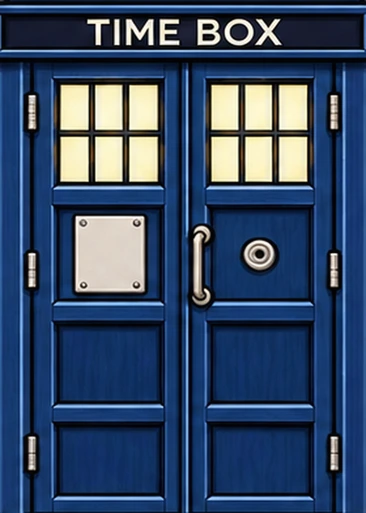
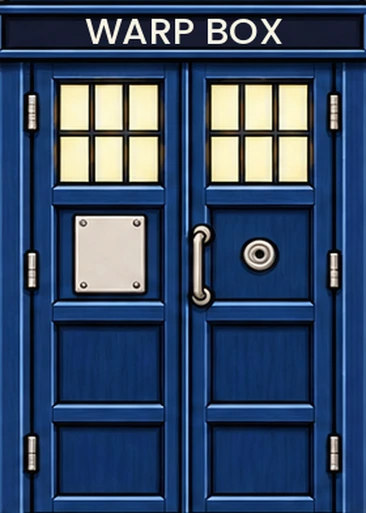
Jummah Dash: Warp Box name, signs, coin rewards, no zapper walls
Claude-Session: https://claude.ai/code/session_01YJ1z4udzgwtjsqdwzKAzGp

Changed region(s): [[0.2104, 0.0312, 0.7814, 0.0936]]

diff --git a/jummahdash/demo/game.js b/jummahdash/demo/game.js
@@ -657,10 +657,11 @@ function jalebiPop(c) { if (t - jalT > .6) { jalT = t; pops.push({ x: c.x, y: c.
 
 function spawnPattern() {
   const x0 = W + 60, top = CEIL + 14, bot = FLOOR - 14, r = Math.random(), m = dist / 10;
-  if (BOX_SOLID() && Math.random() < .55) {   // owner 23 Nov: in the box the street throws things he can warp through: zapper walls, rocket volleys, big lasers
+  if (BOX_SOLID()) {   // owner 23 Nov: in the Warp Box the street throws rocket volleys and big lasers (no zapper walls)
     const q = Math.random();
-    if (q < .45) { const n = 2 + (Math.random() * 2 | 0); for (let i = 0; i < n; i++) obs.push({ type: 'zap', x: x0 + i * 120, y: top + 40 + Math.random() * (bot - top - 80), len: 110 + Math.random() * 60, ang: Math.random() < .5 ? Math.PI / 2 : Math.random() * Math.PI, spin: 0, seed: Math.random() * 99 }); for (let i = 0; i < 6; i++) coinList.push({ x: x0 + 40 + i * 40, y: top + 30 + Math.random() * (bot - top - 60), got: 0 }); return 120 * n + 200; }
-    if (q < .8) { const n = 2 + (Math.random() * 2 | 0); for (let i = 0; i < n; i++) setTimeout(() => { if (state === 'play') obs.push({ type: 'rocket', x: W + 40, y: hero.y - 30 + (Math.random() - .5) * 80, warn: 1.3, lock: 0, v: 0 }); }, i * 450); return 360; }
+    if (q > .78) { const n = 12, y0 = top + 30 + Math.random() * (bot - top - 80); for (let i = 0; i < n; i++) coinList.push({ x: x0 + i * 18, y: y0 + Math.sin(i / 2.2) * 26, got: 0 }); return 140 + n * 18; }   // breathers: plain coin waves
+    if (q < .5) { for (let i = 0; i < 10; i++) coinList.push({ x: x0 + 60 + i * 24, y: top + 30 + (i % 5) * (bot - top - 60) / 4, got: 0 });   // owner 23 Nov: no zapper walls in the Warp Box; rocket volleys with coins to warp through
+      const n = 2 + (Math.random() * 2 | 0); for (let i = 0; i < n; i++) setTimeout(() => { if (state === 'play') obs.push({ type: 'rocket', x: W + 40, y: hero.y - 30 + (Math.random() - .5) * 80, warn: 1.3, lock: 0, v: 0 }); }, i * 450); return 360; }
     [CEIL + 40, (CEIL + FLOOR) / 2, FLOOR - 40].forEach((y, i) => obs.push({ type: 'laser', x: W / 2, y, ph: 'in', pt: 0, slide: 0, d: i * .12 })); return 380; }
   if (r < .3) { // line / wave of coins
     const n = 8 + (Math.random() * 8 | 0), y0 = top + 20 + Math.random() * (bot - top - 60), wave = Math.random() < .5;
@@ -860,7 +861,8 @@ let BOXR = null; const BOX_P = .4;   // each shimmer lasts .4 s
 function boxTick(dt) { if (!BOXR) return; if (hero.dead || veh) { BOXR = null; return; } BOXR.t += dt; BOXR.cd = Math.max(0, (BOXR.cd || 0) - dt);
   if (BOXR.t > BOX_LIFE && !BOXR.w) { BOXR = null; flashT = .1; flashCol = '170,200,255'; tone(700, .3, 'sine', .05, .4, MIX && MIX.fx); pops.push({ x: hero.x + 20, y: hero.y - HH * 2, txt: 'BOX GONE!', col: '#9fc4ff', t: 0 }); for (let i = 0; i < 24; i++) sparks.push({ x: hero.x + (Math.random() - .5) * 60, y: hero.y - Math.random() * 90, vx: (Math.random() - .5) * 260, vy: -Math.random() * 200, l: .5, c: Math.random() < .5 ? '#9fc4ff' : '#fff6c8' }); inv = Math.max(inv, 1); return; }
   if (BOXR.w) { const w0 = BOXR.w.t; BOXR.w.t += dt; inv = Math.max(inv, .15); hero.vy *= .9;
-    if (w0 < WO + WG && BOXR.w.t >= WO + WG) { tone(520, .3, 'sine', .06, 1.9, MIX && MIX.fx); flashT = .08; flashCol = '170,200,255'; for (let i = 0; i < 20; i++) { const a = Math.random() * 6.28; sparks.push({ x: hero.x, y: hero.y - HH * .8, vx: Math.cos(a) * 220, vy: Math.sin(a) * 220, l: .35, c: Math.random() < .5 ? '#9fc4ff' : '#ffffff' }); } pops.push({ x: hero.x + 30, y: hero.y - HH * 2, txt: 'WARPED!', col: '#9fc4ff', t: 0 }); obs = obs.filter(o => !(o.type === 'zap' && Math.abs(o.x - hero.x) < 120) && !(o.type === 'rocket' && o.x > hero.x - 40 && o.x < hero.x + 200)); }
+    if (BOXR.w.t > WO * .5 && BOXR.w.t < WO + WG) coinList.forEach(c => { if (!c.got && c.x < hero.x + 60 && c.x > hero.x - 500) { c.got = 1; coins += nearMult * (c.j ? 3 : 1); BOXR.w.n += nearMult * (c.j ? 3 : 1); lastCoin = dist; } });   // every coin on the stretch he skips is his
+    if (w0 < WO + WG && BOXR.w.t >= WO + WG) { tone(520, .3, 'sine', .06, 1.9, MIX && MIX.fx); flashT = .08; flashCol = '170,200,255'; for (let i = 0; i < 20; i++) { const a = Math.random() * 6.28; sparks.push({ x: hero.x, y: hero.y - HH * .8, vx: Math.cos(a) * 220, vy: Math.sin(a) * 220, l: .35, c: Math.random() < .5 ? '#9fc4ff' : '#ffffff' }); } { const bonus = BOXR.w.auto ? 2 : 3, got = BOXR.w.n + bonus; coins += bonus; $('coins').textContent = '£' + coins; SFX.coin && SFX.coin(1.3); pops.push({ x: hero.x + 30, y: hero.y - HH * 2, txt: (BOXR.w.auto ? 'SLIPPED THROUGH! +£' : 'WARPED! +£') + got, col: '#9fc4ff', t: 0 }); RUN.warpCoins = (RUN.warpCoins || 0) + got; } obs = obs.filter(o => !(o.type === 'zap' && Math.abs(o.x - hero.x) < 120) && !(o.type === 'rocket' && o.x > hero.x - 40 && o.x < hero.x + 200)); }
     if (BOXR.w.t > WO + WG + WI) BOXR.w = null; } BOXR.a += dt * (BOXR.t < BOX_P * 3 ? 5 : 2.6);
   const ph = Math.floor(BOXR.t / BOX_P); if (ph !== BOXR.ph && ph <= 3) { BOXR.ph = ph; tone(ph < 3 ? 520 + ph * 90 : 880, ph < 3 ? .16 : .28, 'sine', .05, ph < 3 ? 1.6 : 1.25, MIX && MIX.fx); tone(ph < 3 ? 260 : 440, .2, 'triangle', .03, 1.4, MIX && MIX.fx);
     for (let i = 0; i < (ph < 3 ? 8 : 22); i++) sparks.push({ x: hero.x + (Math.random() - .5) * 60, y: hero.y - Math.random() * 90, vx: (Math.random() - .5) * 120 - speed * .2, vy: -Math.random() * 120, l: .45, c: Math.random() < .5 ? '#9fc4ff' : '#fff6c8' });
@@ -869,7 +871,7 @@ const BOX_LIFE = 22;   // seconds the box lasts (owner: it runs out)
 const BOX_SOLID = () => BOXR && BOXR.t >= BOX_P * 3.7;
 const WARP_CD = 2.4, WO = .24, WG = .42, WI = .3;   // warp: fade out, gone (the street rushes past), fade back in further along
 function boxWarp(auto) { if (!BOX_SOLID() || BOXR.w || (!auto && (BOXR.cd || 0) > 0) || state !== 'play' || hero.dead) return false;
-  BOXR.w = { t: 0 }; BOXR.cd = WARP_CD; RUN.warps = (RUN.warps || 0) + 1; tone(300, .35, 'sine', .06, .35, MIX && MIX.fx); tone(900, .3, 'sine', .03, .3, MIX && MIX.fx);
+  BOXR.w = { t: 0, n: 0, auto: !!auto }; BOXR.cd = WARP_CD; RUN.warps = (RUN.warps || 0) + 1; tone(300, .35, 'sine', .06, .35, MIX && MIX.fx); tone(900, .3, 'sine', .03, .3, MIX && MIX.fx);
   for (let i = 0; i < 26; i++) { const a = Math.random() * 6.28, r = 40 + Math.random() * 30; sparks.push({ x: hero.x + Math.cos(a) * r, y: hero.y - HH * .8 + Math.sin(a) * r, vx: -Math.cos(a) * r * 3, vy: -Math.sin(a) * r * 3, l: .25, c: Math.random() < .5 ? '#9fc4ff' : '#ffffff' }); }   // sucked inward
   return true; }
 function warpVis() { if (!BOXR || !BOXR.w) return 1; const t = BOXR.w.t; if (t < WO) return 1 - t / WO; if (t < WO + WG) return 0; return Math.min(1, (t - WO - WG) / WI); }
@@ -1042,7 +1044,7 @@ function update(dt) {
   if (flashT > 0) flashT -= dt; if (shake > 0) shake -= dt; if (banner) { banner.t += dt; if (banner.t > 1.8) banner = null; }
   // coins
   coinList.forEach(c => { c.x -= dx;
-    if (!c.got && !hero.dead && state === 'play' && (hasG('tin') || (veh && (veh.k === 'kabootar' || veh.nb > .3 || (veh.k === 'mech' && veh.su >= 1))) || boost)) { const hx = hero.x + (veh && veh.k === 'mech' ? 30 * MCH : 4), hy = hero.y - (veh && veh.k === 'kabootar' ? 44 : veh && veh.k === 'mech' ? 100 * MCH : veh ? 36 : 24), d = Math.hypot(hx - c.x, hy - c.y); if (d < (boost ? 260 : 170) || c.mag) { c.mag = 1; const k = Math.min(1, dt * 9); c.x += (hx - c.x) * k; c.y += (hy - c.y) * k; } }
+    if (!c.got && !hero.dead && state === 'play' && (hasG('tin') || BOX_SOLID() || (veh && (veh.k === 'kabootar' || veh.nb > .3 || (veh.k === 'mech' && veh.su >= 1))) || boost)) { const hx = hero.x + (veh && veh.k === 'mech' ? 30 * MCH : 4), hy = hero.y - (veh && veh.k === 'kabootar' ? 44 : veh && veh.k === 'mech' ? 100 * MCH : veh ? 36 : 24), d = Math.hypot(hx - c.x, hy - c.y); if (d < (boost ? 260 : 170) || c.mag) { c.mag = 1; const k = Math.min(1, dt * 9); c.x += (hx - c.x) * k; c.y += (hy - c.y) * k; } }
     if (!c.got && !hero.dead && state === 'play') { const hc = heroCircles(); if (hc.some(([x, y, r]) => Math.hypot(x - c.x, y - c.y) < r + COIN_R + 2)) { c.got = 1; coins += nearMult * (c.j ? 3 : 1); if (c.j) jalebiPop(c); if (veh && veh.k === 'tuktuk') veh.fuel = Math.min(1, veh.fuel + .04); lastCoin = dist; POL.coin(c); } } });
   coinList.forEach(c => { if (!c.got && c.x < -18 && !c.m) { c.m = 1; stats.missed++; } });
   coinList = coinList.filter(c => c.x > -20 && !c.got);
@@ -1283,7 +1285,7 @@ function rideIcon(k) { if (k === 'carpet' && CARPET_ICON.complete && CARPET_ICON
 function roundRect(x, y, w, h, r) { ctx.beginPath(); ctx.moveTo(x + r, y); ctx.arcTo(x + w, y, x + w, y + h, r); ctx.arcTo(x + w, y + h, x, y + h, r); ctx.arcTo(x, y + h, x, y, r); ctx.arcTo(x, y, x + w, y, r); ctx.closePath(); }
 
 /* rides: tuk-tuk (drives on the pavement, tap to jump) and magic carpet (hold to rise, glides down). One hit = the ride blows up and he's thrown clear. */
-const VEH_NAME = { box: 'BLUE BOX', tuktuk: 'TUK-TUK', carpet: 'MAGIC CARPET', kabootar: 'FLAPPY KABOOTAR', sandals: 'GRAVITY SANDALS', mech: 'HOOVER MECH', logman: 'LAKRI MAN' };
+const VEH_NAME = { box: 'WARP BOX', tuktuk: 'TUK-TUK', carpet: 'MAGIC CARPET', kabootar: 'FLAPPY KABOOTAR', sandals: 'GRAVITY SANDALS', mech: 'HOOVER MECH', logman: 'LAKRI MAN' };
 const RIDES = ['tuktuk', 'carpet', 'kabootar', 'sandals', 'mech', 'logman', 'box'];
 const MCH = 1.08;   // Hoover Mech size (owner 23 Nov: doubled, then 25% smaller: about 45% of the screen tall)
 // gift-box rides come from a shuffled deck: every ride once before any repeats, never the same one twice in a row, kept between games (owner, 22 Nov)
@@ -1355,7 +1357,7 @@ const PIG_N = 8, pigArt = (() => { const out = [];
     out.push(c); }
   window.__pigArt = out; return out; })();
 function runStarted() {
-  if (!localStorage.getItem('jd_skilltip')) { try { localStorage.setItem('jd_skilltip', '1'); } catch (e) {} setTimeout(() => pops.push({ x: hero.x + 40, y: hero.y - 110, txt: 'TAP DASH (OR SWIPE RIGHT)!', col: '#ffd21f', t: 0 }), 2500); setTimeout(() => pops.push({ x: hero.x + 40, y: hero.y - 110, txt: 'FLY CLOSE TO HAZARDS = x2 COINS', col: '#7fe3ff', t: 0 }), 7000); }   // start of the run proper: offer head starts (like their HEAD START buttons), golden misbaha ride
+  if (!localStorage.getItem('jd_skilltip')) { try { localStorage.setItem('jd_skilltip', '1'); } catch (e) {} setTimeout(() => pops.push({ x: hero.x + 40, y: hero.y - 110, txt: BOXR ? 'TAP WARP TO SKIP AHEAD!' : 'TAP DASH (OR SWIPE RIGHT)!', col: '#ffd21f', t: 0 }), 2500); setTimeout(() => pops.push({ x: hero.x + 40, y: hero.y - 110, txt: 'FLY CLOSE TO HAZARDS = x2 COINS', col: '#7fe3ff', t: 0 }), 7000); }   // start of the run proper: offer head starts (like their HEAD START buttons), golden misbaha ride
   usedSave = 0;
   if (SHOP.hs500 > 0 || SHOP.hs1000 > 0) { $('hs5').style.display = SHOP.hs500 > 0 ? '' : 'none'; $('hs10').style.display = SHOP.hs1000 > 0 ? '' : 'none'; $('hs5n').textContent = 'x' + SHOP.hs500; $('hs10n').textContent = 'x' + SHOP.hs1000; $('hsBox').classList.add('on'); clearTimeout(runStarted.t); runStarted.t = setTimeout(() => $('hsBox').classList.remove('on'), 3800); }
   if (hasG('misbaha')) setTimeout(() => { if (state === 'play' && !veh && !boost && !hero.dead) startVehicle(nextRide()); }, 600);
@@ -1456,7 +1458,7 @@ function drawReveal() {
   ctx.restore(); ctx.globalAlpha = 1;
 }
 function startVehicle(k, fromReveal) {
-  if (k === 'box') { BOXR = { t: 0, a: 0, ph: -1 }; RUN.box = 1; inv = Math.max(inv, 1.6); return; }   // owner 23 Nov: the blue box shimmers in round him; he keeps flying as normal
+  if (k === 'box') { BOXR = { t: 0, a: 0, ph: -1 }; RUN.box = 1; inv = Math.max(inv, 1.6); if (!RUN.warpTip) { RUN.warpTip = 1; setTimeout(() => BOXR && pops.push({ x: hero.x + 40, y: hero.y - 120, txt: 'TAP WARP TO SKIP AHEAD!', col: '#9fc4ff', t: 0 }), 1700); } return; }   // owner 23 Nov: the blue box shimmers in round him; he keeps flying as normal
   BOXR = null;
   if (k === 'kabootar' && !window.__oldPigeon && FMS.enter()) return;
   RUN[k] = 1;

diff --git a/jummahdash/demo/jd-extra.js b/jummahdash/demo/jd-extra.js
@@ -121,7 +121,7 @@
   }
   function snapshot() { try { if (!localStorage.getItem('jd_admin_snap')) localStorage.setItem('jd_admin_snap', JSON.stringify({ shop: localStorage.getItem('jd_shop'), bank: localStorage.getItem('jd_bank') })); } catch (e) {} }
   // what admin runs start with, plus extras (kept on the phone). When a new ride / power-up is added to the game, add it to START here too (owner rule).
-  var START = [['', 'NOTHING'], ['tuktuk', 'TUK-TUK'], ['carpet', 'MAGIC CARPET'], ['kabootar', 'FLAPPY KABOOTAR'], ['sandals', 'GRAVITY SANDALS'], ['mech', 'HOOVER MECH'], ['logman', 'LAKRI MAN'], ['box', 'BLUE BOX'], ['logmangold', 'GOLDEN LAKRI MAN'], ['hs500', 'HEAD START 500M'], ['hs1000', 'HEAD START 1000M']];
+  var START = [['', 'NOTHING'], ['tuktuk', 'TUK-TUK'], ['carpet', 'MAGIC CARPET'], ['kabootar', 'FLAPPY KABOOTAR'], ['sandals', 'GRAVITY SANDALS'], ['mech', 'HOOVER MECH'], ['logman', 'LAKRI MAN'], ['box', 'WARP BOX'], ['logmangold', 'GOLDEN LAKRI MAN'], ['hs500', 'HEAD START 500M'], ['hs1000', 'HEAD START 1000M']];
   var TOG = [['god', "CAN'T DIE"], ['boxes', 'RIDE BOX EVERY 10S'], ['magnet', 'COIN MAGNET']];
   var OPT = (function () { try { return JSON.parse(localStorage.getItem('jd_adm_opt')) || {}; } catch (e) { return {}; } })();
   function saveOpt() { try { localStorage.setItem('jd_adm_opt', JSON.stringify(OPT)); } catch (e) {} }

diff --git a/jummahdash/demo/sw.js b/jummahdash/demo/sw.js
@@ -1,8 +1,8 @@
 /* Jummah Dash: keeps the whole game on the phone. First visit downloads it once;
    after that it opens from the phone, and an update only downloads the files that changed. */
-const BUILD = '20261123205317';
+const BUILD = '20261123205757';
 const FILES = {
-"jd-extra.js": "077fef3017",
+"jd-extra.js": "cfaae1b40a",
 "hd/landmarks_hd.js": "7d60d75c5a",
 "hd/cars_v3.js": "51ebab1eae",
 "hd/mech.js": "e8ac3de068",
@@ -10,7 +10,7 @@ const FILES = {
 "hd/box.js": "768b9463b2",
 "hd/tins.js": "aa419cd2f9",
 "hd/foodbank.png": "8f4400d5e6",
-"game.js": "94c06af5e8",
+"game.js": "a5746713e3",
 "landmarks.js": "4649570284",
 "vehicles.js": "32fdac20ce",
 "manifest.webmanifest": "f337af2b13",
@@ -241,13 +241,13 @@ const FILES = {
 "art/logman_gold/n_thigh.webp": "aaffa00576",
 "art/logman_gold/n_uarm.webp": "58f38074cd",
 "art/box/base.webp": "3fd1349f37",
-"art/box/front.webp": "7ba833a92a",
+"art/box/front.webp": "43c2283e35",
 "art/box/lantern.webp": "94f1c9763d",
 "art/box/lb.webp": "b13ab50723",
 "art/box/r1.webp": "fb471968b4",
 "art/box/r2.webp": "9fa23b2413",
 "art/box/r3.webp": "99f06cb030",
-"art/box/side.webp": "9c3299591a",
+"art/box/side.webp": "1ceb0fb758",
 "art/hero3s_classic.webp": "522b3e2d9c",
 "art/hero3s_eid.webp": "f6e3b5f896",
 "art/hero3s_luton.webp": "9d40f76781",

diff --git a/jummahdash/demo/game.html b/jummahdash/demo/game.html
@@ -607,9 +607,9 @@ var t=setInterval(function(){var lt=document.getElementById('loadTxt');if(!q&&lt
 <script src="hd/mech.js?h=e8ac3de068"></script>
 <script src="hd/logman.js?h=3eebaa7c57"></script>
 <script src="hd/box.js?h=768b9463b2"></script>
-<script src="game.js?h=94c06af5e8"></script>
+<script src="game.js?h=a5746713e3"></script>
 <script src="hd/tins.js?h=aa419cd2f9"></script>
-<script src="jd-extra.js?h=077fef3017"></script>
+<script src="jd-extra.js?h=cfaae1b40a"></script>
 <script src="/flappy/carreq.js?v=1"></script>
 </body>
 </html>

diff --git a/CLAUDE.md b/CLAUDE.md
@@ -158,7 +158,7 @@ Owner: Summar (SMR Graphics / SMR Digital / SMR Plates, Luton). He edits the sit
 - 23 Nov (live): Hoover Mech ride (hd/mech.js drawMech, owner's own exosuit design, no face but one red laser eye + mouth slit, no white anywhere; MCH 1.08 in game.js): Transformer-style suit-up in slow motion (MECH_LOCKS clank + sparks), stomping high-knee walk that never slides (MECH_GAIT), both arms jointed (ball shoulder, elbow piston, cuff), backpack hose plugged into the near forearm; hold = foot thrusters fly like the jetpack; heavy landings knock people over; hose = coin magnet. SHIELD button bottom-left (#bShield, hold to keep it up, battery 2.5 s, recharges 3.5 s from empty as soon as you let go): red holographic hex shield, rockets bounce off (DEFLECTED!), lasers blocked; without it lasers/rockets wreck the mech, zappers only crackle. In the mech only rockets spawn (singles/pairs/volleys aimed at the suit). Skill systems: jetpack overheat (gauge beside him, 2.8 s solid hold = OVERHEAT + 1.1 s cut-out), steam dash (DASH button bottom-left #bDash or swipe right/D key; 2.2 s recharge, passes through hazards = THREADED! +£5), near-miss boost (CLOSE! xN, coins worth xN up to x5, 3 s window, speed burst). Ride bag: every ride twice, Flappy Kabootar once (rarer), never the same twice running; first gift box at 20 s is random too. Convoy: first within the first 90 s, then every 90-150 s. Outfits redrawn in the v3 style (hero_v3.js outfit param: eid cream + gold, luton orange/navy, puffer navy quilted, moroccan striped djellaba with hood; build_v3.py renders all five sheets; deploy.py hashes each). Demo modes: ?mechdemo=1 (every box is the mech), ?ridedemo=1 (every ride except Flappy in turn, boxes every ~1000 units). Claude artifact demo: 601d658b-cde5-4fb0-b20c-aee61a7de9b7 ("Jummah Dash – power-ups demo").
 - 23 Nov later (live): Billi the Cat gadget (id 'cat', £3,000; CAT in game.js, works like Flash the dog in Jetpack Joyride, drawn in the hero's style at his scale FS): orange tabby trots along the pavement with him (IK legs, diagonal pairs, planted paws slide with the street), jumps for low coins, trips about 1 in 4 people it runs into, rides along on every power-up (tuk-tuk, carpet, Flappy pigeon, mech shoulder, uncle's Corolla) pulling coins in from close by; near ear in front of the head, far ear smaller behind. Puffer = waist-length navy jacket over the thobe; Luton outfit = full kit (orange shirt, navy shorts, navy leggings, orange boots). Yaris wheels .87 (WSZ). DASH button back to the old style and spot, 74px (63 on short screens). Shop outfit icons skip a picture that hasn't loaded (a 0-byte hero3_puffer.webp had stopped the outfits list after Classic; rebuilt). Test hook window.__spawn(key, x).
 - 23 Nov (afternoon, live 23 Nov ~15:00 after a full test pass): power-ups now work like the owner's JJ2 recording: the ride token spins like a coin with a holographic rainbow frame; grabbing it = white flash, the game freezes under a title card (startReveal/drawReveal: teal energy band with flickering jagged edges, the ride's picture from art/card/<k>.webp (owner's ChatGPT art: mech, carpet, sandals, kabootar; tuk-tuk uses its icon), POWER-UP! + name, arrow streak; 1.75 s), then the ride's parts fly in from off screen with white streaks and lock on (veh.asm, 3 pieces, clank + sparks, final white flash; the mech keeps its own suit-up and skips its old banner). Hoover Mech jumps like Big Stomper (timed from the recording): tap = crouch then blast-off (vy -1500, SFX.stompJump: filtered-noise roar + low boom), up in ~0.23 s, ~0.25 s hang, fast drop; hold in the air = thrusters hover/climb; landing = squash, dust ring, thudBig + clank, shake, people knocked over. Ammi's Tin (end-of-run biscuit tin game, hd/tins.js + art/tin/*.webp from the owner's ChatGPT sprites: open tin, lid, lid flying, contents sewing/few/lots/eidi/keys/jackpot/gift; contentsS draws them smaller and lower, clipped to the opening with only a low mound above the back rim and the inner wall shading over the back, so they sit down in the tin): tins float in runs (spinning tilt, gold ring, sparkles, shine), fly to a tin counter under the money (#tinHud, art/tin/closed.webp); each tin = one round: 3 tins (R × .82, owner 23 Nov), the jackpot tin peeks, SHUFFLE! (gold pill button with a shuffle icon, pulse + shine sweep; ▶ icon for OPEN NEXT TIN / CARRY ON via data-k), quick shuffle (5 swaps), pick one, camera moves in (every phase sped up by TSPD in tins.js, owner 23 Nov: shuffle, see the prize, see what you missed, next), money wins = ka-ching + coins pouring out + confetti, lid prises off, contents pop, the other two open. Prizes: jackpot tin £300 / £150 / head start 1000m / 2 second chances / a free jugaad; others mostly the sewing kit, sometimes £25/£50, a second chance or head start 500m. ?tindemo=1 = tins often; window.__tins(n). Shop tab GADGETS renamed JUGAAD; new jugaad HOT JALEBI (£1,800: some coin trails become jalebis worth £3; owner's jalebi art art/jalebi.webp). Rockets silver with a blue nose/fins and one blue + one white stripe. Then (same afternoon): DASH button left of the SHIELD (#bShield moved to left +116); on the carpet he stays his running size (HS); power-up tokens stay fixed to the street like JJ's: a spinning hologram tile (see-through SMR Digital blue→violet→pink face with moving rainbow bands and scan lines, polished metal rim whose thickness is the rim repeated behind it as it turns, glint running round the rim); tuk-tuk title card = owner's render art/card/tuktuk.webp; carpet token icon = owner's carpet render art/icon_carpet.webp (rideIcon); Billi is built into the rides: on a power-up he leaps onto it in an arc (CAT.jmp, .5 s), lands with a squash, then the ride draws him itself in a lying pose (CAT.lie(g, rideScale, {hang|wind}), CAT.built()): Hoover Mech = lying on the shoulder pad, paws draped over the front, tail down the back (drawMech o.cat hook after the pad); carpet = lying on the cloth riding its ripple (carpetWave()); tuk-tuk = flat on the roof, tail streaming; head start / pigeon = the same lying pose at the ride spot; only Ammi's tin floats, in a wave you chase, with a soft gold glow hugging it, a shine that sweeps over the round tin only (masked to the tin's pixels on a small canvas TINSH), and four motion lines trailing to the left that stretch and shrink on their own beats and bend along the path the tin just floated through, with little speed dashes drifting off the ends (no ring; ?tindemo tins every ~900-1400 units); Billi walks in at the start (only sits once you're down); Billi runs at a gallop (knees on the front, hocks behind on the back legs, faster with the game); DASH, SHIELD and HORN buttons all the same 74px (63 on short screens) in exactly the same spot, left calc(var(--sl) * .6 + 6px), 37px up; distance/money HUD left calc(var(--sl) * .6 + 10px); Flappy Kabootar ride only in every other ride bag (jd_fkbag) and its coins are £10 each; carpet flies in under him in one piece, sandals rise to his feet; gravity sandals = chunky brown sandals with glowing green straps and a thick neon green sole, drawn into small sheets art/hero3s_<outfit>.webp (run0-5 + glide0; heroV3.sandal, `python3 hd/build_v3.py sandals`). Demo artifact has Billi the cat equipped. Tuk-tuk HORN BLAST (owner 23 Nov): gold HORN button (#bHorn; H/D keys) while in the tuk-tuk, 1.8 s recharge ring: SFX.horn = the owner's own horn recording art/snd/horn.mp3 (his two honks at 4.70-6.12 s of his clip; the loud bit at 7.5 s is a TikTok sound, never use it, highpass + denoise, 12 ms fade in / 0.58 s fade out, loudness-normalised; synth air horn only until it loads) (nothing mixed in); brass bulb horn on the tuk-tuk's front pillar squeezes, the tuk-tuk rocks back; the shockwave is see-through sound waves that bend the picture behind them (drawHorns after the sparks: copies the canvas into WARP, then warpRing() magnifies the strip under each ring sector by sector with its own wobble, glassBand() adds a faint glassy crest; one big wave + two ripples rolling right, small waves pumping out of the horn; no drawn lines) rolls right at 1100 px/s across the screen: zappers shatter (ZAPPED +£2), flying rockets are blown back (BLOWN AWAY +£2), rockets still on their warning are cancelled when it reaches the edge (ROCKET CANCELLED! +£2), lasers shut off (LASER OFF +£2), people in its path are knocked flat (+£1 each). Tip 'HIT HORN TO BLAST HAZARDS!' the first time. Tuk-tuk double jump (owner 23 Nov): a second tap in the air (veh.dj, reset on landing) boosts it again with a thruster burst (veh.dbl), enough to reach the top of the screen (ceiling clamp CEIL + 84); hold still slows the fall. Tuk-tuk is laser-proof (tukLaser: sparks crackle over it, 'LASER-PROOF!' once per laser). Test hooks __jd.horn(), __jd.zap(x,y,len,ang). 23 Nov evening: shop tab JUGAAD renamed back to GADGETS everywhere (no 'jugaad' wording anywhere; tin prize = FREE GADGET!); the Charity Tin gadget is now COIN MAGNET (id still 'tin' so saves keep it, drawn magnet icon); Luton Central Mosque is the default masjid with no first-time picker (change it in Settings); zapper ends = the owner's silver balls with the hole the beam comes out of (art/zapball.webp cut from his sheet, zapBall()/ballCrackle()); the horn pulse makes things short out and break instead of vanishing (wrecks[] in game.js: zapper beams stutter then the balls drop, bounce and smoke; laser boxes flicker out and fall; rockets lose their flame, tumble down and pop on the road; 'SHORTED OUT +£2'); laser warning line has a dark backing, soft glow and thicker moving dashes so it shows on the busy street; horn recording played at full gain; DASH, SHIELD and HORN buttons 30% bigger (96px, 82px on short screens, bottom 22px), still all in the same spot.  Tuk-tuk redrawn (owner 23 Nov evening): glossy paint with a clear-coat band, panel seams, chrome bumper, grab rail, mudguard, plate, stitched canopy, real tyres with chrome rims that blur at speed; headlight = chrome bezel + glowing lens + soft layered cone with flicker and a light pool on the road; thrusters = metal nozzles that glow hot, layered roaring jets (white core, yellow, orange) with shock diamonds, ground glow and embers, bigger blast on the double jump, tiny blue pilot flame in the air (veh.heat). Convoy rarer: first at 2.5-5 min, then every 5-8 min. DASH is hidden (and can't fire) under the power-up title card and in Flappy Kabootar mode.
-- 23 Nov evening (live): tuk-tuk horn fixed (traffic kit's SFX.horn was overwriting it; the tuk-tuk plays SFX.tukHorn = the owner's two honks at 4.7-6.1 s of his clip); Billi back on the carpet/pigeon (code had been swallowed by a comment); zappers = chrome balls drawn in code (zapBallArt, lighting stays upright) with an "eye" (iris + white-hot pupil) facing the other ball, golden beam; tuk-tuk redrawn (glossy paint, chrome, real tyres, glowing nozzles with roaring jets, soft headlight); convoy rarer (first 2.5-5 min, then 5-8 min); POLISH block (POL in game.js): jetpack flame (P.jet), lean + landing squash (hero.sq), cooker rattle/red glow/valve spits, footstep dust, coin streak pitch + sparkles + "+N" + HUD bump + glints, rocket tracking line, chunkier rockets x1.35, laser whir + shake, near-miss slow-mo (SMT), hit-stop (HITT), soot/fizz, coins spill + death zoom, ride debris, mech cracks + joint steam, sandal flip ripple, carpet sparkles, pigeon feathers, pavement pigeons that scatter, speed lines, game-over count-up + NEW BEST + confetti, shop ka-ching + flying coins, mission star, button clicks, home tiles slide in + logo shine + hero bob, every tone pitch varies ±2%; background music removed (owner); plane redrawn (generic white/orange livery, no airline name, gear, lights, drifting exhaust) + plane roar (SFX.planeT) + train rumble/clacks/horn (SFX.trainT); cooker heat bar moved under the money (#heatBar: COOKER / TOO HOT! shaking / COOLING… with smoke puffs); results screen first with RUN AGAIN, tins + Eidi banked (jd_bankT/jd_bankE, open from results or home; banked Eidi "life" = a Second Chance item); first-ever run (no jd_played): tuk-tuk box low at ~8.5 s, then a vertical zapper + "HIT HORN TO BREAK IT!" with the HORN button pulsing; repeat ride pickups skip the title card (jd_seenRides, quickRide; kabootar keeps its own entry); set pieces after 220 m (14%): speed-camera gate with a coin line through the gap, spinning zapper ringed with coins, rocket run (fixY lanes) with coins in the middle lane; STYLE shop tab: Copper Cooker £300, Black Chrome Cooker £400 (art/cookmask.webp recolours only the cooker pixels, ckSheet), Green Steam £200, Pink Steam £250 (SHOP.ck / SHOP.st); Welcome to Luton = the real painted tarmac slope in a grass bank with perspective lettering (welcomeTex warped row by row). Lakri Man (owner's orange log character, name is a placeholder): rigged in hd/logman.js (drawLogman) from the owner's parts sheet cut into art/logman/*.webp (body, near/far upper arm, forearm, hand, thigh, shin, foot, 10 faces); joints have no outline seams (outline discs behind, fill discs over the seams); run cycle, air pose, windmill arms, faces change with what he's doing. New ride 'logman' in RIDES: Hulk-style mutation (drawLogVeh: he shakes, turns orange, stretches, the cooker drops off and bounces away (heroSplit via cookmask), burst of wood chips, Lakri Man grows out with an overshoot; SFX.mutate growl + wood creaks); tap = big leap, tap again in the air = flip leap, hold in the air = windmill arms slow the fall; zappers can't hurt wood ('WOOD DON'T CONDUCT!'), rockets and lasers splinter him; a bit taller than the hero (LMS .096). Title card art/card/logman.webp = the owner's bat-on-shoulder render (also the ride token icon); BAT button icon art/bat_icon.webp = his bat picture, tilted. Later 23 Nov: browner orange (art/logman/*.webp recoloured from art/logman_orig/, joint fills #d16c2a/#ad4f1b); jump, flip, then a double flip (veh.jn up to 3, 'TRIPLE!'); holds the owner's long bat (art/logman/n_bat.webp, hand + bat cut from his sheet, bat stretched 1.55x) in place of his near hand; BAT button (#bBat, same spot/size as Shield/Dash/Horn; B/S keys): wind-up, whip and follow-through (batAngle), the forward whip smashes zappers (SMASHED!), sends rockets back (HOME RUN!) and knocks out lasers at his height (BATTED!), short hit-stop; limits: bat snaps after 6 hits (BAT_HP), and he only lasts 24 s (LOG_LIFE): creaks and cracks for the last 5 s, then logRevert() splinters him back into the hero (not a death). Baseball (owner 23 Nov): BASE HIT! (zapper), HOME RUN! (rocket, ballpark organ 'charge!' SFX.charge, then homeRunLands(): coin shower / pigeons / car alarm / GRAND SLAM +£10), BATTED! (laser), STRIKE OUT! when he's hit; hit streak ×2..×5 on the payout (resets on a whiffed swing, 'STREAK OVER'); STYLE shop bats: Taped Bat £500 (10 hits), Aluminium Bat £800 (wider swing + TING), Golden Bat £1200 (coins on every hit, sometimes no damage) (SHOP.bat; art/logman/n_bat_tape|alu|gold.webp); Golden Lakri Man 1 in 200 (?goldlog=1 or admin start option): metallic gold parts from art/logman_gold/, glow + sparkle trail, golden bat, lasts twice as long. Admin mode (jd-extra.js START) has LAKRI MAN and GOLDEN LAKRI MAN; ride-box rotation includes him; admin unlocks the style items and bats. Death (owner 23 Nov night): no grey/soot or white shock tint; he goes limp in the fall0_ko pose with dizzy swirl eyes (hero_v3.js face 'ko', all outfit sheets rebuilt); his cooker breaks off (deadCookOff/drawDeadCook: heroSplit body drawn on him, the cooker flies up spinning, pours dark smoke (steam p.dark), bounces and smoulders, kept near him); Second Chance gives it back. Tuk-tuk assembly (owner 23 Nov night): no more picture strips; drawVehicle's tuk-tuk is split into its real parts with PT(i, fn) and TUK_PARTS (centre x/y, fly-in offset, spin): back wheel, cabin, body, canopy, windscreen, mirror, headlight, front wheel, thrusters, exhaust, horn; each flies in on its own path 0.07 apart, eases in with a small overshoot and a white trail, then clicks (own tone) with sparks and a cross glint (veh.glint). window.__aT freezes the assembly for screenshots; __jd.veh(k, true) starts a ride with the assembly. Fixes 23 Nov night: taps now jump (the jump code had only run during the mutation), jump / flip / double flip work; Lakri Man 40% bigger (LMS .1344); bat = the owner's own bat picture (light orange, knob in the fist, 330 px, ~1.4x longer; tape/alu/gold made from it, old ones in art/logman_orig/); mutation redone as one body (hunch, orange glow, three growth spurts, wood rising from the feet past a glowing seam, cooker breaks off his back and bounces away, head squashed into the log, roar); heroSplit turns the opaque cookmask's brightness into alpha (it used to count the whole hero as cooker, so the hero flew off); can't be hurt while transforming; generous bat timing (whip window .02-.36 s, bigger reach, hits during a swing go to the bat first, .2 s grace after a hit); time up or a hit = logExplode(): his body parts (window.LOGMAN_P) fly apart with a blast and the hero is underneath with his cooker. Somersault (owner 23 Nov night): real tucked front flip: st.tuck (0-1, in over the first 15%, out over the last 18%) bends thigh/shin/foot to knees-up heels-in and pulls the arms in (legA/armA in logman.js), the near leg is drawn in front of the log while tucked, the pivot moves up to the ball's centre, the spin eases in/out (smoothstep), flips last .56 s (triple .8 s); window.__fT freezes the flip progress, window.__noRot turns off the spin for checks. Blue box (owner 23 Nov night, his own art, sign reads TIME BOX; a spinning box only, no time travel): hd/box.js drawBox(g, x, groundY, h, angle) turns a real square box from his pictures (front face = his door side, the other three = his single side picture, roof steps/base cut from it, faces cropped inside the outline with one outline round the outside and thin corner lines, light from the upper left, slight perspective; lantern's glass redrawn with four posts sliding round so it turns too; art/box/*.webp, title card art/card/box.webp rendered from it). Power-up 'box' in RIDES (VEH_NAME BLUE BOX) but not a vehicle: startVehicle sets BOXR and he keeps flying with the cooker; it shimmers in and out round him 3 times (.4 s each) and sticks on the 4th, then spins round him. DASH button turns into WARP (blue; swipe right / D too): he and the box are sucked in (spin + shrink), the street rushes past (+1500 speed for ~.4 s) and they pop out further on ('WARPED!', 2.4 s recharge); touching a zapper or rocket warps him automatically; big lasers can't touch him; landing spot is cleared of zappers/rockets. While in it the spawner throws zapper walls, rocket volleys and laser sets (55%). Lasts 22 s (BOX_LIFE), flickers for the last 3 s, then 'BOX GONE!'. Admin START has BLUE BOX. Preview page box_preview.html in the work folder. Handover doc: Jummah-Dash-handover.docx (sent in chat). Test hook window.__lm(key, x) puts a landmark on the street.
+- 23 Nov evening (live): tuk-tuk horn fixed (traffic kit's SFX.horn was overwriting it; the tuk-tuk plays SFX.tukHorn = the owner's two honks at 4.7-6.1 s of his clip); Billi back on the carpet/pigeon (code had been swallowed by a comment); zappers = chrome balls drawn in code (zapBallArt, lighting stays upright) with an "eye" (iris + white-hot pupil) facing the other ball, golden beam; tuk-tuk redrawn (glossy paint, chrome, real tyres, glowing nozzles with roaring jets, soft headlight); convoy rarer (first 2.5-5 min, then 5-8 min); POLISH block (POL in game.js): jetpack flame (P.jet), lean + landing squash (hero.sq), cooker rattle/red glow/valve spits, footstep dust, coin streak pitch + sparkles + "+N" + HUD bump + glints, rocket tracking line, chunkier rockets x1.35, laser whir + shake, near-miss slow-mo (SMT), hit-stop (HITT), soot/fizz, coins spill + death zoom, ride debris, mech cracks + joint steam, sandal flip ripple, carpet sparkles, pigeon feathers, pavement pigeons that scatter, speed lines, game-over count-up + NEW BEST + confetti, shop ka-ching + flying coins, mission star, button clicks, home tiles slide in + logo shine + hero bob, every tone pitch varies ±2%; background music removed (owner); plane redrawn (generic white/orange livery, no airline name, gear, lights, drifting exhaust) + plane roar (SFX.planeT) + train rumble/clacks/horn (SFX.trainT); cooker heat bar moved under the money (#heatBar: COOKER / TOO HOT! shaking / COOLING… with smoke puffs); results screen first with RUN AGAIN, tins + Eidi banked (jd_bankT/jd_bankE, open from results or home; banked Eidi "life" = a Second Chance item); first-ever run (no jd_played): tuk-tuk box low at ~8.5 s, then a vertical zapper + "HIT HORN TO BREAK IT!" with the HORN button pulsing; repeat ride pickups skip the title card (jd_seenRides, quickRide; kabootar keeps its own entry); set pieces after 220 m (14%): speed-camera gate with a coin line through the gap, spinning zapper ringed with coins, rocket run (fixY lanes) with coins in the middle lane; STYLE shop tab: Copper Cooker £300, Black Chrome Cooker £400 (art/cookmask.webp recolours only the cooker pixels, ckSheet), Green Steam £200, Pink Steam £250 (SHOP.ck / SHOP.st); Welcome to Luton = the real painted tarmac slope in a grass bank with perspective lettering (welcomeTex warped row by row). Lakri Man (owner's orange log character, name is a placeholder): rigged in hd/logman.js (drawLogman) from the owner's parts sheet cut into art/logman/*.webp (body, near/far upper arm, forearm, hand, thigh, shin, foot, 10 faces); joints have no outline seams (outline discs behind, fill discs over the seams); run cycle, air pose, windmill arms, faces change with what he's doing. New ride 'logman' in RIDES: Hulk-style mutation (drawLogVeh: he shakes, turns orange, stretches, the cooker drops off and bounces away (heroSplit via cookmask), burst of wood chips, Lakri Man grows out with an overshoot; SFX.mutate growl + wood creaks); tap = big leap, tap again in the air = flip leap, hold in the air = windmill arms slow the fall; zappers can't hurt wood ('WOOD DON'T CONDUCT!'), rockets and lasers splinter him; a bit taller than the hero (LMS .096). Title card art/card/logman.webp = the owner's bat-on-shoulder render (also the ride token icon); BAT button icon art/bat_icon.webp = his bat picture, tilted. Later 23 Nov: browner orange (art/logman/*.webp recoloured from art/logman_orig/, joint fills #d16c2a/#ad4f1b); jump, flip, then a double flip (veh.jn up to 3, 'TRIPLE!'); holds the owner's long bat (art/logman/n_bat.webp, hand + bat cut from his sheet, bat stretched 1.55x) in place of his near hand; BAT button (#bBat, same spot/size as Shield/Dash/Horn; B/S keys): wind-up, whip and follow-through (batAngle), the forward whip smashes zappers (SMASHED!), sends rockets back (HOME RUN!) and knocks out lasers at his height (BATTED!), short hit-stop; limits: bat snaps after 6 hits (BAT_HP), and he only lasts 24 s (LOG_LIFE): creaks and cracks for the last 5 s, then logRevert() splinters him back into the hero (not a death). Baseball (owner 23 Nov): BASE HIT! (zapper), HOME RUN! (rocket, ballpark organ 'charge!' SFX.charge, then homeRunLands(): coin shower / pigeons / car alarm / GRAND SLAM +£10), BATTED! (laser), STRIKE OUT! when he's hit; hit streak ×2..×5 on the payout (resets on a whiffed swing, 'STREAK OVER'); STYLE shop bats: Taped Bat £500 (10 hits), Aluminium Bat £800 (wider swing + TING), Golden Bat £1200 (coins on every hit, sometimes no damage) (SHOP.bat; art/logman/n_bat_tape|alu|gold.webp); Golden Lakri Man 1 in 200 (?goldlog=1 or admin start option): metallic gold parts from art/logman_gold/, glow + sparkle trail, golden bat, lasts twice as long. Admin mode (jd-extra.js START) has LAKRI MAN and GOLDEN LAKRI MAN; ride-box rotation includes him; admin unlocks the style items and bats. Death (owner 23 Nov night): no grey/soot or white shock tint; he goes limp in the fall0_ko pose with dizzy swirl eyes (hero_v3.js face 'ko', all outfit sheets rebuilt); his cooker breaks off (deadCookOff/drawDeadCook: heroSplit body drawn on him, the cooker flies up spinning, pours dark smoke (steam p.dark), bounces and smoulders, kept near him); Second Chance gives it back. Tuk-tuk assembly (owner 23 Nov night): no more picture strips; drawVehicle's tuk-tuk is split into its real parts with PT(i, fn) and TUK_PARTS (centre x/y, fly-in offset, spin): back wheel, cabin, body, canopy, windscreen, mirror, headlight, front wheel, thrusters, exhaust, horn; each flies in on its own path 0.07 apart, eases in with a small overshoot and a white trail, then clicks (own tone) with sparks and a cross glint (veh.glint). window.__aT freezes the assembly for screenshots; __jd.veh(k, true) starts a ride with the assembly. Fixes 23 Nov night: taps now jump (the jump code had only run during the mutation), jump / flip / double flip work; Lakri Man 40% bigger (LMS .1344); bat = the owner's own bat picture (light orange, knob in the fist, 330 px, ~1.4x longer; tape/alu/gold made from it, old ones in art/logman_orig/); mutation redone as one body (hunch, orange glow, three growth spurts, wood rising from the feet past a glowing seam, cooker breaks off his back and bounces away, head squashed into the log, roar); heroSplit turns the opaque cookmask's brightness into alpha (it used to count the whole hero as cooker, so the hero flew off); can't be hurt while transforming; generous bat timing (whip window .02-.36 s, bigger reach, hits during a swing go to the bat first, .2 s grace after a hit); time up or a hit = logExplode(): his body parts (window.LOGMAN_P) fly apart with a blast and the hero is underneath with his cooker. Somersault (owner 23 Nov night): real tucked front flip: st.tuck (0-1, in over the first 15%, out over the last 18%) bends thigh/shin/foot to knees-up heels-in and pulls the arms in (legA/armA in logman.js), the near leg is drawn in front of the log while tucked, the pivot moves up to the ball's centre, the spin eases in/out (smoothstep), flips last .56 s (triple .8 s); window.__fT freezes the flip progress, window.__noRot turns off the spin for checks. Warp Box (owner 23 Nov night, his own art; a spinning box only, no time travel): hd/box.js drawBox(g, x, groundY, h, angle) turns a real square box from his pictures (front face = his door side, the other three = his single side picture, roof steps/base cut from it, faces cropped inside the outline with one outline round the outside and thin corner lines, light from the upper left, slight perspective; lantern's glass redrawn with four posts sliding round so it turns too; art/box/*.webp, title card art/card/box.webp rendered from it). Power-up 'box' in RIDES (VEH_NAME BLUE BOX) but not a vehicle: startVehicle sets BOXR and he keeps flying with the cooker; it shimmers in and out round him 3 times (.4 s each) and sticks on the 4th, then spins round him. DASH button turns into WARP (blue; swipe right / D too): he and the box are sucked in (spin + shrink), the street rushes past (+1500 speed for ~.4 s) and they pop out further on ('WARPED!', 2.4 s recharge); touching a zapper or rocket warps him automatically; big lasers can't touch him; landing spot is cleared of zappers/rockets. Lasts 22 s (BOX_LIFE), flickers for the last 3 s, then 'BOX GONE!'. Renamed WARP BOX (owner): both sign pictures repainted to read WARP BOX (Poppins Medium over the blended panel), power-up name WARP BOX in VEH_NAME and admin START. Benefits: coin magnet while in it, every coin on the stretch he skips is collected, +£3 per WARP (+£2 when a hazard pulls him through, 'SLIPPED THROUGH!'), tip 'TAP WARP TO SKIP AHEAD!'. While in it the spawner only throws rocket volleys with coins, big laser sets and plain coin waves (owner: no zapper walls in the Warp Box). Preview page box_preview.html in the work folder. Handover doc: Jummah-Dash-handover.docx (sent in chat). Test hook window.__lm(key, x) puts a landmark on the street.
 - Public link (owner 22 Nov): smrgraphics.co.uk/jummahdash (also /jummah-dash) → /jummahdash/demo/ (root .htaccess rule, plus jummahdash/index.php + jummahdash/.htaccess DirectoryIndex as a fallback for /jummahdash/).
 - Admin mode (owner, 23 Nov, live): in jd-extra.js (same rule: keep it when deploying from the work folder; deploy.py restamps its ?h= and sw.js entry). Settings → ADMIN MODE → on-screen keypad; code 1279 (JD_ADMIN_CODE in jummahdash/api.php, a code the owner can give to testers) or the owner's SMR Admin PIN (that phone is then left out of the stats); checked by api.php?a=admin_pin with the SMR Admin login limits. Unlocks on that phone (localStorage jd_admin): every outfit and gadget, 3 slots, 99 head starts + second chances, bank £999,999 (game.js keeps bank private, so it's written to jd_bank and the page reloads; refills itself when under £500k), pink ADMIN button under the top-right buttons on the home screen, EXIT button during a run (reloads to the home screen). Panel: Start every run with (nothing / tuk-tuk / magic carpet / Flappy Kabootar / gravity sandals / Hoover Mech / head start 500 / 1000, via __jd.veh / __jd.boost when the run starts), Extras (can't die = window.__god, ride box every 10 s via __jd.gift, coin magnet = charity tin on), wear any outfit, gadgets on/off, Open shop, Top up, Turn admin off (double tap; restores the progress saved before admin mode, jd_admin_snap). Owner rule: every new ride, power-up, outfit or gadget added to the game goes into START / OUTFITS / GADGETS in jd-extra.js too.
 - Stats + Recommend a place (added 22 Nov from the Kaya/admin chat, NOT from the Jummah Dash work folder): jummahdash/demo/jd-extra.js, loaded by one line `<script src="jd-extra.js?h=…">` after game.js in game.html. **When deploying from the work folder, copy jd-extra.js into it and keep that script line in game.html** (or deploy.py will drop them). It only hooks in from outside (DOM + window.__jd): random device id jd_vid (localStorage + cookie), source from ?s= / in-app browser / home screen / referrer, events to /jummahdash/api.php?a=ev (visit, play when __jd.state turns 'intro', over = #over shown with val = metres from #oD and extra = coins from #oC, share/hs_open/smr/shop/outfit from taps on #bShare/#bInst/#smrOpen/#bShop/#bOutfit, install, rec); adds a RECOMMEND A PLACE tile (map + pin icon) at the bottom of the home menu column (tiles share the column height, so the others shrink a little) opening #recBox (game-style sheet: place name, where, anything else, SEND/CLOSE, thank-you card); hidden when SMR Admin → Games → Jummah Dash → Settings turns it off (api cfg show_recommend). Server: jummahdash/api.php (outside demo/ so deploys never touch it; tables jd_events, jd_recs, jd_meta, jd_owner; rec = 6/hour per visitor + push "Jummah Dash: new place" → /demo-admin/#jummah) and jummahdash/admin.php (Stats / Inbox / Settings like Flappy; best runs table; tag tip for ?s=).
